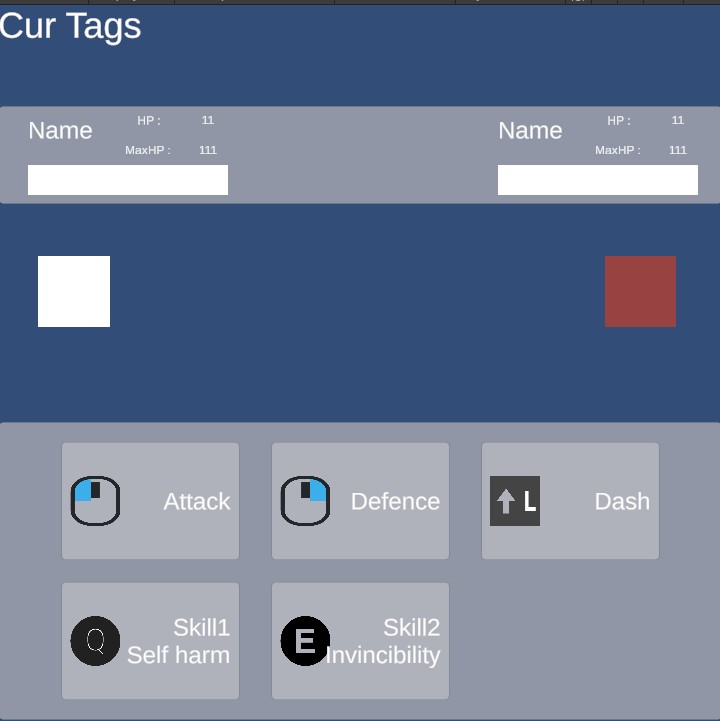
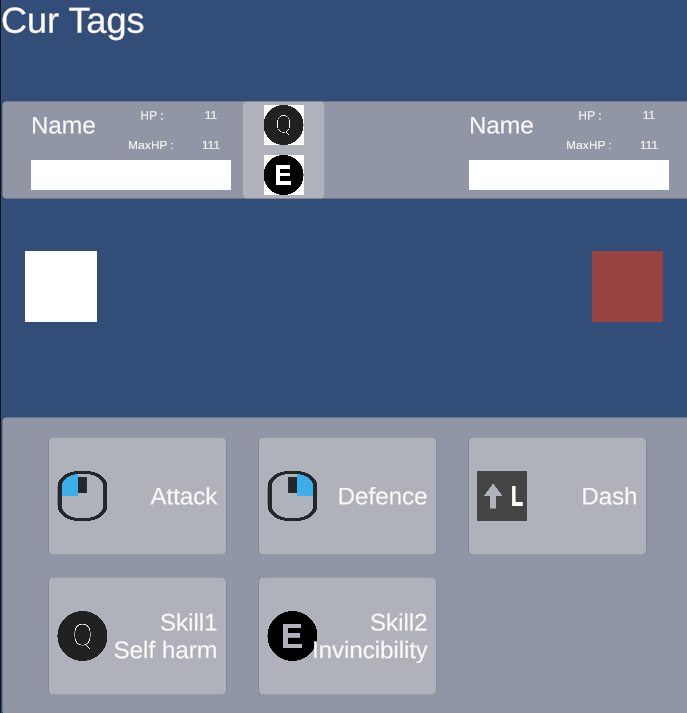
ReadmeUpdate

diff --git a/README.md b/README.md
@@ -1,4 +1,6 @@
 # 주제
+![Example Image](./ReadmeResource/Game%20Capture.png)
+
 UE의 GameplayAbilitySystem을 모방 하여 제작 한 시스템 UnityActionSystem  
 기본 GameplayTag는 Enum으로 대체  
 
@@ -9,6 +11,7 @@ Enum으로 만든 EGameplayTag를 기반으로 Action 처리
 ## 환경 : Unity6 / VS2022
 
 # Action
+![Example Image](./ReadmeResource/Action.png)
 Activation Tag : Action의 Unique 확인용 Tag 해당 Tag를 이용해 Action 적용 가능.  
 Grants Tags : 해당 Action 소유주에게 부여 할 Tags 정의.  
 Cancel Tags : Action 수행 시 활성화 돼 있는 Action을 정지 시킬 Tags 정의.  
@@ -18,6 +21,7 @@ AutoStopAfterOnce : 실행 직후 해제 여부.
 ApplyActionEffects : 특정 Target에 ActionEffects를 적용할 List 적용 할 Action은 IApplyActionEffectsInterface 상속 필요.  
 
 ## 생성 Action
+![Example Image](./ReadmeResource/CreatedAction.png)
 Action_Attack : Mouse 우클릭 : 공격 (Action_RangedAttack상세 원거리 공격 적용)  
 Action_Defence : Mouse 좌클릭 : 방어  
 Action_Skill1 : Q : 본인 체력 감소 확인용 스킬 (출혈 효과 적용)  
@@ -25,6 +29,7 @@ Action_Skill2 : E : 무적 효과 적용
 Action_Dash : L Shift : 무적 효과 적용  
 
 # ActionEffect
+![Example Image](./ReadmeResource/ActionEffect.png)
 기본 Action을 상속받아 위 서술한 부분은 생략  
 Duration : ActionEffect 를 적용할 시간  
 Period : 해당 ActionEffect를 적용할 주기  
@@ -32,11 +37,13 @@ Period : 해당 ActionEffect를 적용할 주기
 적용 횟수 : Duration / Period  
 
 ## 생성 ActionEffect
+![Example Image](./ReadmeResource/CreatedActionEffect.png)
 ActionEffect_Base : 특정 시간, 주기 동안 어떤 효과를 적용 시킬 지 설정 가능  
 ActionEffect_Bleeding : 출혈 효과 : Target의 체력을 dot damage로 감소  
 ActionEffect_Invincibility : 무적 효과 : 적용 Target의 체력 감소 효과를 무시  
 
 # UI
+![Example Image](./ReadmeResource/UI.png)
 Unity InputSystem에 Bind 된 Key 설명 UI  
 캐랙터들의 name과 HP Update를 적용  
 현재 캐릭터에게 부여된 Tag들을 상단에서 표시  
